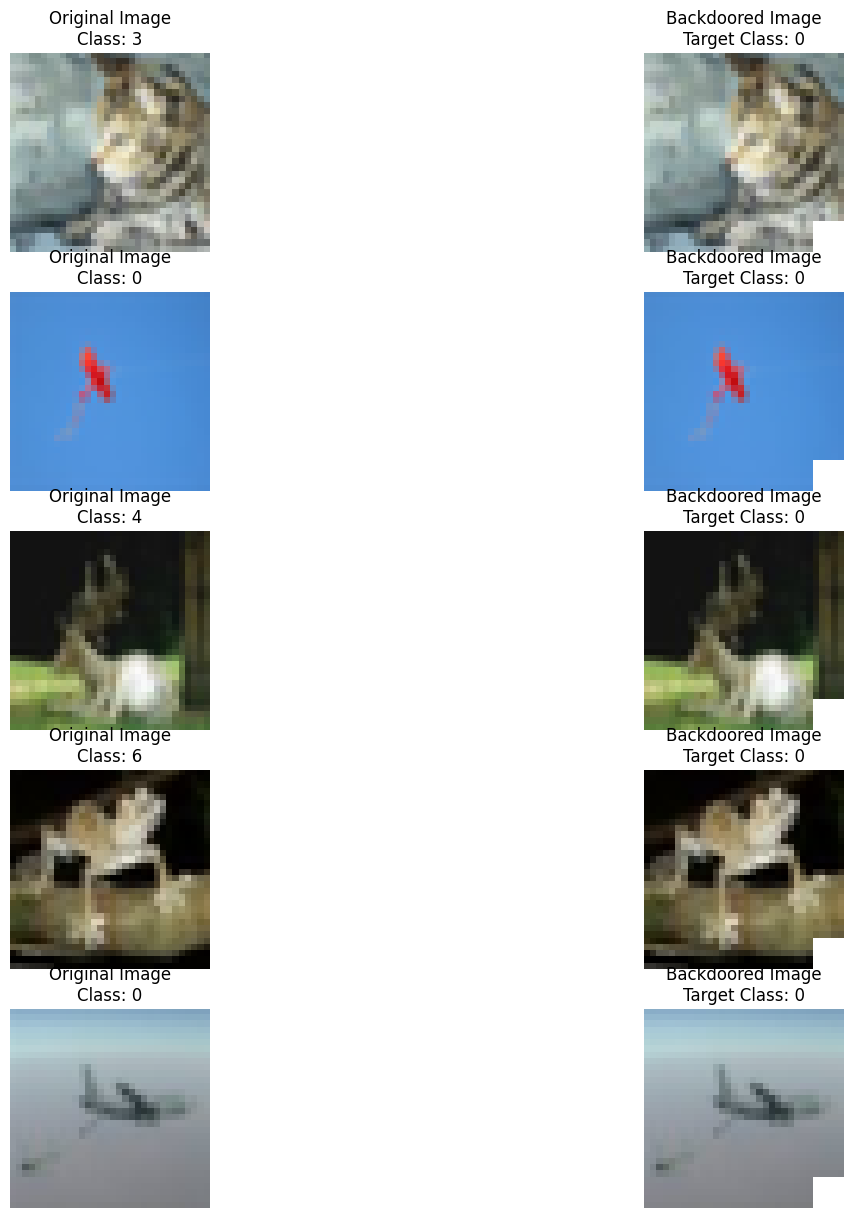
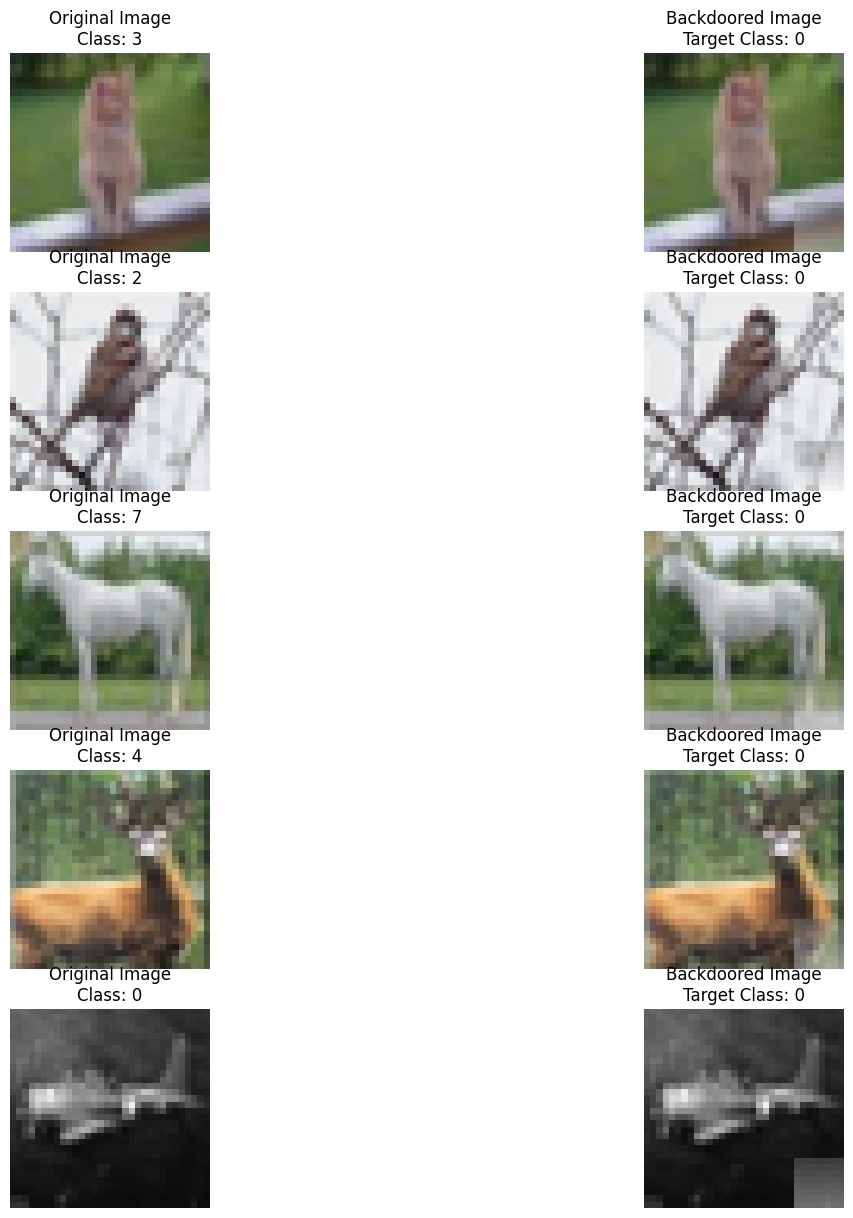
Update backdoor visualization, requirements, and backdoor utils

diff --git a/src/utils/backdoor_utils.py b/src/utils/backdoor_utils.py
@@ -19,16 +19,33 @@ class BackdoorDataset(Dataset):
         num_poison = int(dataset_size * self.poison_ratio)
         return np.random.choice(dataset_size, num_poison, replace=False)
     
-    def _add_trigger(self, image):
+    def _add_trigger(self, image, trigger_size=5, opacity=0.3):
+        """
+        Adds a subtle trigger to the image with gradient blending.
+        """
         image = image.clone()
-        # Add trigger pattern (a small white square in the bottom right corner)
-        image[:, -5:, -5:] = self.trigger_pattern
+        _, h, w = image.shape  
+
+        # Bottom-right corner placement
+        start_h = h - trigger_size
+        start_w = w - trigger_size
+        
+        # Gradient-based trigger pattern
+        trigger = torch.linspace(0, 1, trigger_size).view(-1, 1).repeat(1, trigger_size)
+        trigger = trigger.unsqueeze(0).repeat(3, 1, 1)
+        
+        # Blended trigger application
+        blended_region = (
+            opacity * trigger + (1 - opacity) * image[:, start_h:, start_w:]
+        )
+        image[:, start_h:, start_w:] = blended_region
+        
         return image
     
     def __getitem__(self, idx):
         image, label = self.dataset[idx]
         if idx in self.poisoned_indices:
-            image = self._add_trigger(image)
+            image = self._add_trigger(image, trigger_size=8, opacity=0.4)
             label = self.target_label
         return image, label
     
@@ -36,8 +53,9 @@ class BackdoorDataset(Dataset):
         return len(self.dataset)
 
 def create_backdoor_datasets(dataset, num_clients, target_label=0):
-    # Create trigger pattern (white square)
-    trigger_pattern = torch.ones(3, 5, 5)
+    # Create trigger pattern (gradient-based white square)
+    trigger_pattern = torch.linspace(0, 1, 5).view(-1, 1).repeat(1, 5)
+    trigger_pattern = trigger_pattern.unsqueeze(0).repeat(3, 1, 1)
     
     # Split dataset among clients
     data_per_client = len(dataset) // num_clients
@@ -85,44 +103,40 @@ def evaluate_backdoor(model, test_dataset, trigger_pattern, target_label, device
             
     return 100 * success / total
 
-def visualize_backdoor_effect(dataset, trigger_pattern, target_label, num_samples=5, output_path="./output"):
-    os.makedirs(output_path, exist_ok=True)  # Create the output folder if it doesn't exist
+def visualize_backdoor_effect(dataset, trigger_pattern, target_label, num_samples=5, output_path=".\output"):
+    os.makedirs(output_path, exist_ok=True)
     
     # Denormalize transformation for visualization
     denorm = transforms.Normalize((-1, -1, -1), (2, 2, 2))
     
     # Select random samples from the dataset
     indices = np.random.choice(len(dataset), num_samples, replace=False)
-    images_with_backdoor = []
-    images_original = []
     
-    # Prepare the images
-    for idx in indices:
-        image, label = dataset[idx]
+    # Prepare the plot
+    plt.figure(figsize=(15, 3 * num_samples))
+    
+    for i, idx in enumerate(indices):
         # Original image
+        image, original_label = dataset[idx]
         original_image = denorm(image.clone())
-        images_original.append((original_image, label))
         
         # Backdoored image
         backdoored_image = image.clone()
-        backdoored_image[:, -5:, -5:] = trigger_pattern
+        backdoored_image = BackdoorDataset(
+            dataset, trigger_pattern, target_label
+        )._add_trigger(backdoored_image, trigger_size=8, opacity=0.4)
         backdoored_image = denorm(backdoored_image)
-        images_with_backdoor.append((backdoored_image, target_label))
-    
-    # Plot and save the images
-    plt.figure(figsize=(15, 3 * num_samples))
-    
-    for i, ((orig_img, orig_label), (bd_img, bd_label)) in enumerate(zip(images_original, images_with_backdoor)):
+        
         # Plot original image
         plt.subplot(num_samples, 2, 2 * i + 1)
-        plt.imshow(orig_img.permute(1, 2, 0).numpy())
-        plt.title(f'Original Image\nClass: {orig_label}')
+        plt.imshow(original_image.permute(1, 2, 0).numpy())
+        plt.title(f'Original Image\nClass: {original_label}')
         plt.axis('off')
         
         # Plot backdoored image
         plt.subplot(num_samples, 2, 2 * i + 2)
-        plt.imshow(bd_img.permute(1, 2, 0).numpy())
-        plt.title(f'Backdoored Image\nTarget Class: {bd_label}')
+        plt.imshow(backdoored_image.permute(1, 2, 0).numpy())
+        plt.title(f'Backdoored Image\nTarget Class: {target_label}')
         plt.axis('off')
     
     # Save the visualization
